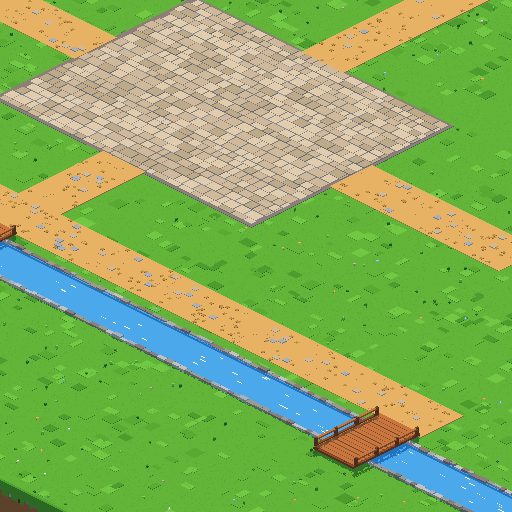
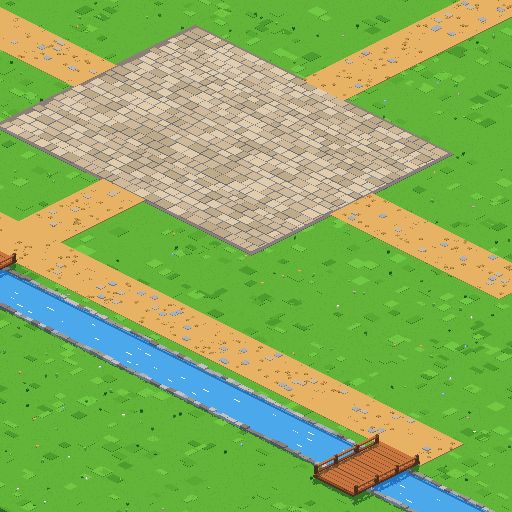
Town step 4: raised terraces with cliffs and ramps
town.json gains levels (a NW orchard at level 1 with a level-2 knoll, a NE hill
at level 1) and ramps (one per terrace, climbing north from the low ground).
TownMap.heightAt (LEVEL_H 14, linear on ramps) drives placement; grid blocks a
1-cell cliff band above every level drop and the two sides of each ramp, ramp
cells stay open; validate checks bounds, one level per lot and plaza, ramps
joining two levels and every terrace reachable from spawn. Both renderers place
sprites, shadows, characters and ambient sprites at the ground height through
TownRender.ground, and toWorld/travellerAt account for it. The terrain art
raises the terraces with soil cliff faces and stones, and builds the ramps as
dirt slopes with treads and stone kerbs.

Claude-Session: https://claude.ai/code/session_01PNVRsGpaL8ajqgKm3RZjXP

diff --git a/public/town-render.js b/public/town-render.js
@@ -11,16 +11,19 @@
   const MIN_W = 900, MIN_H = 560; // css px of map that must stay in view
   const CHAR_CAP = 128; // soft cap on cached character textures; own agents and friends share it, and lruEvict never drops one on screen
   const FEET = [9, 25]; // OfficeSprites pixel under the feet (same as office-world drawPerson)
-  let O = [961, 4]; // terrain.json originPx; mount() replaces it with the loaded value
+  let O = [961, 32]; // terrain.json originPx; mount() replaces it with the loaded value
 
   const project = (x, y, z) => [O[0] + K * (x - y), O[1] + K2 * (x + y) - z];
   // Inverse of project at z = 0: terrain px -> world units.
   const unproject = (sx, sy) => { const u = (sx - O[0]) / K, v = (sy - O[1]) / K2; return [(u + v) / 2, (v - u) / 2]; };
   const depthOf = (x, y) => x + y;
+  // Land levels (town step 4): everything standing on the town is drawn at its ground height. mount() sets the map.
+  let M = null;
+  const atGround = (x, y) => project(x, y, root.TownMap ? root.TownMap.heightAt(M, x, y) : 0);
 
   // Character placement on screen: the OfficeSprites view/dir for a face, a mirror for west, and depth after sprites at the same x+y.
   function charPlace(x, y, face) {
-    const front = face === 'e' || face === 's', [sx, sy] = project(x, y, 0), flip = !front && face === 'w';
+    const front = face === 'e' || face === 's', [sx, sy] = atGround(x, y), flip = !front && face === 'w';
     return { view: front ? 'f' : 'b', dir: front ? (face === 's' ? -1 : 1) : 0, flip,
       px: Math.round(sx) + (flip ? FEET[0] : -FEET[0]), py: Math.round(sy) - FEET[1], z: depthOf(x, y) + 1e-3 };
   }
@@ -72,7 +75,7 @@
     const tx = left + cx * k / zoom, ty = top + cy * k / zoom;
     let best = null;
     for (const [id, t] of shown) {
-      const [sx, sy] = project(t.x, t.y, 0);
+      const [sx, sy] = atGround(t.x, t.y);
       const hd = 30 + (t.dh || 0); // head height follows the sprite's height
       if (Math.abs(tx - sx) <= 10 && ty <= sy + 3 && ty >= sy - hd && (!best || depthOf(t.x, t.y) > best.d))
         best = { id, name: t.name, d: depthOf(t.x, t.y), sx: (sx - left) * zoom / k, sy: (sy - hd - top) * zoom / k };
@@ -83,12 +86,18 @@
   // View rect in terrain px for a camera on world (x, y): centred on it, clamped to the map (centred when the map is
   // smaller than the view). viewW/viewH: backing px. -> {left, top, w, h}. Shared by both renderers.
   function cameraRect(x, y, viewW, viewH, zoom, terrain) {
-    const [px, py] = project(x, y, 0), w = viewW / zoom, h = viewH / zoom, [tw, th] = terrain.size;
+    const [px, py] = atGround(x, y), w = viewW / zoom, h = viewH / zoom, [tw, th] = terrain.size;
     const cl = (v, half, size) => size <= half * 2 ? size / 2 : Math.min(size - half, Math.max(half, v));
     return { left: cl(px, w / 2, tw) - w / 2, top: cl(py, h / 2, th) - h / 2, w, h };
   }
-  // css px inside the canvas -> world x,y at ground level, for a laid-out view (k: backing px per css px).
-  const toWorldAt = (cx, cy, left, top, zoom, k) => unproject(left + cx * k / zoom, top + cy * k / zoom);
+  // css px inside the canvas -> world x,y on the ground, for a laid-out view (k: backing px per css px). Unproject at z = 0,
+  // then twice more at the ground height found there (enough for 14-unit steps).
+  function toWorldAt(cx, cy, left, top, zoom, k) {
+    const sx = left + cx * k / zoom, sy = top + cy * k / zoom;
+    let p = unproject(sx, sy);
+    for (let i = 0; i < 2; i++) p = unproject(sx, sy + (root.TownMap ? root.TownMap.heightAt(M, p[0], p[1]) : 0));
+    return p;
+  }
   // Backing store = css px x renderScale (G.renderScale already has the HiDPI cap applied, so dpr is 1 here), and the zoom.
   function backingSize(canvas, G) {
     const rs = G.renderScale, cw = canvas.clientWidth, ch = canvas.clientHeight;
@@ -126,7 +135,7 @@
     const P = root.PIXI, SP = root.OfficeSprites;
     const getJson = async u => { const r = await fetch(u); if (!r.ok) throw new Error(u + ': HTTP ' + r.status); return r.json(); };
     const [atlas, terrain] = await Promise.all([getJson(atlasUrl), getJson(terrainUrl)]);
-    O = terrain.originPx;
+    O = terrain.originPx; M = map;
     const base = terrainUrl.replace(/[^/]*$/, '');
     const colourUrl = atlasUrl.replace(/\.json$/, '.png'), shadowUrl = atlasUrl.replace(/\.json$/, '-shadow.png'), glowUrl = atlasUrl.replace(/\.json$/, '-glow.png');
     const hasGlow = Object.values(atlas.frames).some(f => f.glow); // atlas-glow.png ships only with lit frames
@@ -198,7 +207,7 @@
     const place = (type, x, y, decorId) => {
       const f = atlas.frames[type];
       if (!f) return;
-      const [sx, sy] = project(x, y, 0), px = Math.round(sx - f.ax), py = Math.round(sy - f.ay);
+      const [sx, sy] = atGround(x, y), px = Math.round(sx - f.ax), py = Math.round(sy - f.ay);
       for (const [layer, src] of [[world, tex[colourUrl].source], [soft, tex[shadowUrl].source]]) {
         const s = new P.Sprite(frameTex(src, type));
         s.position.set(px, py); s.cullable = true; s.zIndex = depthOf(x, y);
@@ -228,7 +237,7 @@
     // Ambient (town step 4): sprites made once; animate(t) shows what the plan for G.ambient asks for.
     const AMB = root.TownAmbient, sparkles = [], parts = [];
     for (const q of AMB.plan(map, 'water').water) {
-      const [sx, sy] = project(q.x, q.y, 0), s = new P.Sprite(sparkTex);
+      const [sx, sy] = atGround(q.x, q.y), s = new P.Sprite(sparkTex);
       s.position.set(Math.round(sx) - 1, Math.round(sy) - 1); s.cullable = true; s.visible = false;
       ambLow.addChild(s); sparkles.push(s); sprites++;
     }
@@ -244,7 +253,7 @@
       parts.forEach((s, i) => {
         const q = live[i];
         if (!q || q.a <= 0) { s.visible = false; return; }
-        const [sx, sy] = project(q.x, q.y, 0), o = START[q.kind];
+        const [sx, sy] = atGround(q.x, q.y), o = START[q.kind];
         s.texture = q.kind === 'steam' ? steamTex : leafTex[i % 2];
         s.position.set(Math.round(sx) + o[0] + q.dx, Math.round(sy) + o[1] + q.dy); s.alpha = q.a; s.visible = true;
       });
@@ -403,5 +412,5 @@
     };
   }
 
-  root.TownRender = { K, CHAR_CAP, setOrigin: o => { O = o; }, travellerHit, cameraRect, toWorldAt, backingSize, lightClock, blobOf, lightAt, project, unproject, zoomFor, visibleChunks, depthOf, charPlace, faceAlong, walkFrame, STRIDE, pool, syncPool, lruEvict, mount };
+  root.TownRender = { K, CHAR_CAP, setOrigin: o => { O = o; }, setMap: m => { M = m; }, ground: atGround, travellerHit, cameraRect, toWorldAt, backingSize, lightClock, blobOf, lightAt, project, unproject, zoomFor, visibleChunks, depthOf, charPlace, faceAlong, walkFrame, STRIDE, pool, syncPool, lruEvict, mount };
 })(globalThis);

diff --git a/public/town-map.js b/public/town-map.js
@@ -10,6 +10,44 @@
   const MAX_ERRORS = 20, ZONE_COST = 0.6; // low enough that the roads beat a ~1.3x straight-line detour across grass
   const num = v => typeof v === 'number' && isFinite(v);
   const inside = (p, [x0, y0, x1, y1]) => p.x >= x0 && p.x < x1 && p.y >= y0 && p.y < y1;
+  const ov = (a, b) => a[0] < b[2] && a[2] > b[0] && a[1] < b[3] && a[3] > b[1];
+
+  // Land levels (town step 4): terraces raise the ground by LEVEL_H world units per level; ramps climb linearly along dir.
+  const LEVEL_H = 14, RAMP_DIRS = ['n', 'e', 's', 'w'];
+  const area = r => (r[2] - r[0]) * (r[3] - r[1]);
+  // The level of the innermost (smallest) terrace rect holding p, 0 outside them all; ramps are ignored.
+  function levelAt(d, x, y) {
+    let best = null;
+    for (const t of d.levels || []) if (inside({ x, y }, t.rect) && (!best || area(t.rect) < area(best.rect))) best = t;
+    return best ? best.level : 0;
+  }
+  // A ramp's low and high ends: the level just inside each end, and t = 0..1 climbing along dir at p.
+  function rampEnds(d, { rect: [x0, y0, x1, y1], dir }) {
+    const cx = (x0 + x1) / 2, cy = (y0 + y1) / 2, e = 0.5;
+    const hi = { n: [cx, y0 + e], s: [cx, y1 - e], e: [x1 - e, cy], w: [x0 + e, cy] }[dir], lo = { n: [cx, y1 - e], s: [cx, y0 + e], e: [x0 + e, cy], w: [x1 - e, cy] }[dir];
+    const t = p => ({ n: (y1 - p.y) / (y1 - y0), s: (p.y - y0) / (y1 - y0), e: (p.x - x0) / (x1 - x0), w: (x1 - p.x) / (x1 - x0) })[dir];
+    return { lo: levelAt(d, lo[0], lo[1]), hi: levelAt(d, hi[0], hi[1]), t };
+  }
+  function heightAt(d, x, y) {
+    if (!d) return 0;
+    for (const r of d.ramps || []) if (inside({ x, y }, r.rect)) { const e = rampEnds(d, r); return (e.lo + (e.hi - e.lo) * e.t({ x, y })) * LEVEL_H; }
+    return levelAt(d, x, y) * LEVEL_H;
+  }
+  // Cliffs: a cell above any 4-neighbour is a 1-cell blocked edge band, except on a ramp; a ramp's two sides are walled too.
+  function cliffBlocks(d) {
+    if (!(d.levels || []).length) return [];
+    const c = d.cell, cols = Math.ceil(d.size.w / c), rows = Math.ceil(d.size.h / c), out = [];
+    const lv = (cc, r) => levelAt(d, (cc + 0.5) * c, (r + 0.5) * c), onRamp = (cc, r) => (d.ramps || []).some(rp => inside({ x: (cc + 0.5) * c, y: (r + 0.5) * c }, rp.rect));
+    for (let r = 0; r < rows; r++) for (let cc = 0; cc < cols; cc++) {
+      const v = lv(cc, r);
+      if (!v || onRamp(cc, r)) continue;
+      if ([[1, 0], [-1, 0], [0, 1], [0, -1]].some(([dc, dr]) => { const a = cc + dc, b = r + dr; return a >= 0 && b >= 0 && a < cols && b < rows && lv(a, b) < v; }))
+        out.push([cc * c, r * c, cc * c + c, r * c + c]);
+    }
+    for (const { rect: [x0, y0, x1, y1], dir } of d.ramps || [])
+      out.push(...(dir === 'n' || dir === 's' ? [[x0 - c, y0, x0, y1], [x1, y0, x1 + c, y1]] : [[x0, y0 - c, x1, y0], [x0, y1, x1, y1 + c]]));
+    return out;
+  }
 
   const decorFootprint = it => (!it || it.type === 'flowers' || !num(it.x) || !num(it.y)) ? null : [it.x - 5, it.y - 5, it.x + 5, it.y + 5];
 
@@ -36,6 +74,7 @@
       ...d.lots.map(l => l.building.footprint),
       ...d.decor.map(decorFootprint).filter(Boolean),
       ...waterBlocks(d.water, d.bridges),
+      ...cliffBlocks(d),
       [0, 0, w, c], [0, h - c, w, h], [0, 0, c, h], [w - c, 0, w, h], // map edge
     ];
     const costs = [d.plaza, ...d.paths].map(rect => ({ rect, cost: ZONE_COST }));
@@ -67,6 +106,16 @@
     for (const k of ['paths', 'water', 'bridges']) {
       if (!Array.isArray(d[k])) err(k + ' must be a list'); else d[k].forEach((r, i) => rect(r, k + '[' + i + ']'));
     }
+    for (const k of ['levels', 'ramps']) if (d[k] !== undefined && !Array.isArray(d[k])) err(k + ' must be a list');
+    const levels = Array.isArray(d.levels) ? d.levels : [], ramps = Array.isArray(d.ramps) ? d.ramps : [];
+    levels.forEach((t, i) => {
+      if (!t || !rect(t.rect, 'levels[' + i + ']')) return;
+      if (t.level !== 1 && t.level !== 2) err('levels[' + i + '] level must be 1 or 2');
+    });
+    ramps.forEach((r, i) => {
+      if (!r || !rect(r.rect, 'ramps[' + i + ']')) return;
+      if (!RAMP_DIRS.includes(r.dir)) err('ramps[' + i + '] dir must be n/e/s/w');
+    });
     if (!Array.isArray(d.decor)) err('decor must be a list');
     else d.decor.forEach((it, i) => {
       if (!it || !DECOR.includes(it.type)) err('decor[' + i + '] has an unknown type');
@@ -89,6 +138,11 @@
       else if (pt(l.door, n + ' door') && b && Array.isArray(b.footprint) && inside(l.door, b.footprint)) err(n + ' door is inside its building footprint');
     }
     if (errors.length) return { ok: false, errors };
+    // one level per lot and for the plaza: a terrace either holds the whole rect or misses it
+    const straddles = r => levels.some(t => ov(t.rect, r) && !(t.rect[0] <= r[0] && t.rect[1] <= r[1] && t.rect[2] >= r[2] && t.rect[3] >= r[3]));
+    for (const l of d.lots) if (straddles(l.rect)) err('lot ' + l.id + ' straddles two levels');
+    if (straddles(d.plaza)) err('the plaza straddles two levels');
+    ramps.forEach((r, i) => { const e = rampEnds(d, r); if (e.hi <= e.lo) err('ramps[' + i + '] does not join two levels (its high end must be the ' + r.dir + ' end)'); });
     const g = grid(d), at = p => g.blocked[W.cellOf(g, p)];
     if (at(d.spawn)) err('spawn is on a blocked cell');
     const reach = W.reachFrom(g, d.spawn);
@@ -96,6 +150,13 @@
       if (at(l.door)) err('lot ' + l.id + ' door is not on a walkable cell');
       else if (!reach(l.door)) err('lot ' + l.id + ' door is not reachable from spawn');
     }
+    // every terrace needs a ramp: some open cell at its own level is reachable from spawn
+    levels.forEach((t, i) => {
+      const [x0, y0, x1, y1] = t.rect, c = d.cell;
+      for (let y = Math.floor(y0 / c) * c + c / 2; y < y1; y += c) for (let x = Math.floor(x0 / c) * c + c / 2; x < x1; x += c)
+        if (x >= x0 && y >= y0 && levelAt(d, x, y) === t.level && !at({ x, y }) && reach({ x, y })) return;
+      err('levels[' + i + '] is not reachable from spawn (no ramp?)');
+    });
     return { ok: !errors.length, errors };
   }
 
@@ -128,5 +189,5 @@
     return out;
   }
 
-  root.TownMap = { validate, grid, decorFootprint, load, enterTarget, lotOfScene, friendLots };
+  root.TownMap = { validate, grid, heightAt, LEVEL_H, decorFootprint, load, enterTarget, lotOfScene, friendLots };
 })(globalThis);

diff --git a/public/town-render-2d.js b/public/town-render-2d.js
@@ -14,7 +14,7 @@
     if (!cx) throw new Error('Canvas2D unavailable');
     const get = async u => { const r = await fetch(u); if (!r.ok) throw new Error(u + ': HTTP ' + r.status); return r; };
     const [atlas, terrain] = await Promise.all([atlasUrl, terrainUrl].map(async u => (await get(u)).json()));
-    R.setOrigin(terrain.originPx);
+    R.setOrigin(terrain.originPx); R.setMap(map);
     const base = terrainUrl.replace(/[^/]*$/, ''), n = terrain.chunk;
     const colourUrl = atlasUrl.replace(/\.json$/, '.png'), shadowUrl = atlasUrl.replace(/\.json$/, '-shadow.png'), glowUrl = atlasUrl.replace(/\.json$/, '-glow.png');
     const hasGlow = Object.values(atlas.frames).some(f => f.glow); // atlas-glow.png ships only with lit frames
@@ -37,7 +37,7 @@
     const place = (type, x, y) => {
       const f = atlas.frames[type];
       if (!f) return;
-      const [sx, sy] = R.project(x, y, 0);
+      const [sx, sy] = R.ground(x, y);
       items.push({ f, px: Math.round(sx - f.ax), py: Math.round(sy - f.ay), z: R.depthOf(x, y), glow: !!(f.glow && hasGlow), blob: f.footprint && R.blobOf(f) });
     };
     for (const l of map.lots) place(l.building.type, l.building.x, l.building.y);

diff --git a/art/blender/town_terrain.py b/art/blender/town_terrain.py
@@ -15,6 +15,45 @@ PLAZA, PATHS, WATER, BRIDGES = U(town['plaza']), [U(p) for p in town['paths']], 
 inside = lambda x, y, r, m=0: r[0] - m <= x <= r[2] + m and r[1] - m <= y <= r[3] + m
 STONE = ['#9a948c', '#7f7a74', '#a39f99']
 
+# ---- land levels: the same rules as TownMap.heightAt (LEVEL_H = 14 world units = 1.4 here) ----
+LH = 1.4
+LEVELS = [(U(t['rect']), t['level']) for t in town.get('levels', [])]
+RAMPS = [(U(r['rect']), r['dir']) for r in town.get('ramps', [])]
+_in = lambda x, y, r: r[0] <= x < r[2] and r[1] <= y < r[3]
+def level_at(x, y):
+    best = None
+    for r, lv in LEVELS:
+        if _in(x, y, r) and (best is None or (r[2] - r[0]) * (r[3] - r[1]) < (best[0][2] - best[0][0]) * (best[0][3] - best[0][1])): best = (r, lv)
+    return best[1] if best else 0
+def ramp_ends(r, d):
+    x0, y0, x1, y1 = r; cx, cy, e = (x0 + x1) / 2, (y0 + y1) / 2, 0.05
+    hi = {'n': (cx, y0 + e), 's': (cx, y1 - e), 'e': (x1 - e, cy), 'w': (x0 + e, cy)}[d]
+    lo = {'n': (cx, y1 - e), 's': (cx, y0 + e), 'e': (x0 + e, cy), 'w': (x1 - e, cy)}[d]
+    return level_at(*lo) * LH, level_at(*hi) * LH
+def on_ramp(x, y): return any(_in(x, y, r) for r, _ in RAMPS)
+def z_at(x, y):  # ground height; ramps are not scattered on, so they need no slope here
+    return level_at(x, y) * LH
+def flat(x, y, w, d):  # a patch that does not cross a cliff or a ramp
+    pts = [(x, y), (x + w, y), (x, y + d), (x + w, y + d)]
+    return len({level_at(*p) for p in pts}) == 1 and not any(on_ramp(*p) for p in pts)
+def cut(r, holes):  # rect minus holes (same split as TownMap's water minus bridges)
+    out = [r]
+    for b in holes:
+        nxt = []
+        for q in out:
+            if b[2] <= q[0] or b[0] >= q[2] or b[3] <= q[1] or b[1] >= q[3]: nxt.append(q); continue
+            xa, xb = max(b[0], q[0]), min(b[2], q[2])
+            if b[0] > q[0]: nxt.append([q[0], q[1], b[0], q[3]])
+            if b[2] < q[2]: nxt.append([b[2], q[1], q[2], q[3]])
+            if b[1] > q[1]: nxt.append([xa, q[1], xb, b[1]])
+            if b[3] < q[3]: nxt.append([xa, b[3], xb, q[3]])
+        out = nxt
+    return out
+def spans(a0, a1, holes):  # [a0, a1] minus the hole intervals
+    out = [(a0, a1)]
+    for h0, h1 in holes: out = [p for (u, v) in out for p in ((u, min(v, h0)), (max(u, h1), v)) if p[1] - p[0] > 0.05]
+    return out
+
 # ---- soil block with layered sides and embedded stones (only the +x and +y sides are seen) ----
 t1, t2 = DEP * 0.4, DEP * 0.43
 box(0, 0, -DEP, W, D, t1, '#6e4a33'); box(0, 0, -DEP + t1, W, D, t2, '#8c5e3c'); box(0, 0, -DEP + t1 + t2, W, D, DEP - t1 - t2, '#a46f45')
@@ -30,17 +69,62 @@ box(0, D - 0.2, -0.9, W, 0.5, 0.9, '#4f8f35'); box(W - 0.2, 0, -0.9, 0.5, D, 0.9
 for i in range(int(W / 1.3)): box(i * 1.3 + rnd.uniform(0, .3), D + 0.25, -1.3, rnd.uniform(.4, .9), 0.12, rnd.uniform(.3, .6), '#4f8f35')
 for i in range(int(D / 1.3)): box(W + 0.25, i * 1.3 + rnd.uniform(0, .3), -1.3, 0.12, rnd.uniform(.4, .9), rnd.uniform(.3, .6), '#4f8f35')
 
+# ---- terraces: soil cliffs (the block's side layers and stones) under a grass top; a notch is left where a ramp climbs in ----
+for r, lv in sorted(LEVELS, key=lambda t: t[1]):
+    H = lv * LH
+    notches = [rr for rr, d in RAMPS if ramp_ends(rr, d)[1] == H]
+    for (x0, y0, x1, y1) in cut(r, notches):
+        box(x0, y0, 0, x1 - x0, y1 - y0, (H - 0.4) * 0.55, '#8c5e3c'); box(x0, y0, (H - 0.4) * 0.55, x1 - x0, y1 - y0, (H - 0.4) * 0.45, '#a46f45')
+        box(x0, y0, H - 0.4, x1 - x0, y1 - y0, 0.4, '#5c9e3c')
+    x0, y0, x1, y1 = r
+    base = lambda x, y: level_at(x, y) * LH  # the ground the cliff stands on
+    for (a, b) in spans(x0, x1, [(n[0], n[2]) for n in notches]):  # south (+y) face, seen from the camera
+        if y1 >= D: continue
+        box(a, y1 - 0.2, H - 0.3, b - a, 0.35, 0.3, '#4f8f35')  # a thin grass lip, so the soil face shows
+        for i in range(int((b - a) / 1.3)): box(a + i * 1.3 + rnd.uniform(0, .3), y1 + 0.15, H - 0.55, rnd.uniform(.3, .7), 0.1, rnd.uniform(.2, .35), '#4f8f35')
+        for _ in range(int((b - a) * 1.2)):
+            z0 = base(rnd.uniform(a, b), y1 + .1)
+            if H - z0 > 1.2: box(rnd.uniform(a, b - .8), y1, rnd.uniform(z0 + .1, H - .8), rnd.uniform(.5, 1.0), 0.1, rnd.uniform(.2, .35), rnd.choice(STONE + ['#5a3a28']))
+    for (a, b) in spans(y0, y1, [(n[1], n[3]) for n in notches]):  # east (+x) face
+        if x1 >= W: continue
+        box(x1 - 0.2, a, H - 0.3, 0.35, b - a, 0.3, '#4f8f35')
+        for i in range(int((b - a) / 1.3)): box(x1 + 0.15, a + i * 1.3 + rnd.uniform(0, .3), H - 0.55, 0.1, rnd.uniform(.3, .7), rnd.uniform(.2, .35), '#4f8f35')
+        for _ in range(int((b - a) * 1.2)):
+            z0 = base(x1 + .1, rnd.uniform(a, b))
+            if H - z0 > 1.2: box(x1, rnd.uniform(a, b - .8), rnd.uniform(z0 + .1, H - .8), 0.1, rnd.uniform(.5, 1.0), rnd.uniform(.2, .35), rnd.choice(STONE + ['#5a3a28']))
+
+# ---- ramps: a soil wedge from the low ground up into the notch, a dirt slope with treads, stone kerbs ----
+for (x0, y0, x1, y1), d in RAMPS:
+    zl, zh = ramp_ends((x0, y0, x1, y1), d)
+    ns = d in ('n', 's')
+    a0, a1 = (y0, y1) if ns else (x0, x1)  # along the climb
+    b0, b1 = (x0, x1) if ns else (y0, y1)  # across it
+    lo, hi = (a1, a0) if d in ('n', 'w') else (a0, a1)
+    axis = 'x' if ns else 'y'
+    T = 0.08
+    kit.prism([(lo, zl), (hi, zh), (hi, zl)], b0, b1, '#8c5e3c', axis)
+    kit.prism([(lo, zl), (hi, zh), (hi, zh + T), (lo, zl + T)], b0 + .25, b1 - .25, '#c49a62', axis)
+    for (k0, k1) in ((b0, b0 + .25), (b1 - .25, b1)): kit.prism([(lo, zl), (hi, zh), (hi, zh + .2), (lo, zl + .2)], k0, k1, '#9a948c', axis)
+    n = max(3, int(abs(hi - lo) / 0.7))
+    for i in range(1, n):
+        u = lo + (hi - lo) * i / n; z = zl + (zh - zl) * i / n + T
+        if ns: box(b0 + .3, u - .06, z, b1 - b0 - .6, .12, .04, '#a98250')
+        else: box(u - .06, b0 + .3, z, .12, b1 - b0 - .6, .04, '#a98250')
+
 # ---- grass variation, tufts and wildflower specks ----
 GRASS = ['#66aa44', '#549637', '#71b84b', '#4c8a33', '#5fa23f']
 for _ in range(int(W * D * 0.14)):
-    x, y = rnd.uniform(0, W - 1.2), rnd.uniform(0, D - 1.2)
-    box(x, y, 0, rnd.uniform(.5, 1.6), rnd.uniform(.5, 1.6), 0.03, rnd.choice(GRASS))
+    x, y, gw, gd = rnd.uniform(0, W - 1.2), rnd.uniform(0, D - 1.2), rnd.uniform(.5, 1.6), rnd.uniform(.5, 1.6)
+    col = rnd.choice(GRASS)
+    if flat(x, y, gw, gd): box(x, y, z_at(x, y), gw, gd, 0.03, col)
 paved = lambda x, y: inside(x, y, PLAZA, .5) or any(inside(x, y, p, .3) for p in PATHS) or any(inside(x, y, w, .6) for w in WATER)
 for _ in range(int(W * D * 0.05)):
     x, y = rnd.uniform(0.3, W - 0.5), rnd.uniform(0.3, D - 0.5)
     if paved(x, y): continue
-    if rnd.random() < 0.7: box(x, y, 0, .2, .2, rnd.choice([.12, .2]), rnd.choice(['#7cc455', '#4c8a33', '#3f7a2c']))
-    else: box(x, y, 0, .2, .2, .12, rnd.choice(['#ffd23f', '#ffffff', '#ff7aa8', '#8fc5ff']))
+    z, ok = z_at(x, y), flat(x, y, .2, .2)
+    if rnd.random() < 0.7: h, col = rnd.choice([.12, .2]), rnd.choice(['#7cc455', '#4c8a33', '#3f7a2c'])
+    else: h, col = .12, rnd.choice(['#ffd23f', '#ffffff', '#ff7aa8', '#8fc5ff'])
+    if ok: box(x, y, z, .2, .2, h, col)
 
 # ---- plaza: irregular stone pavers ----
 PX0, PY0, PX1, PY1 = PLAZA
